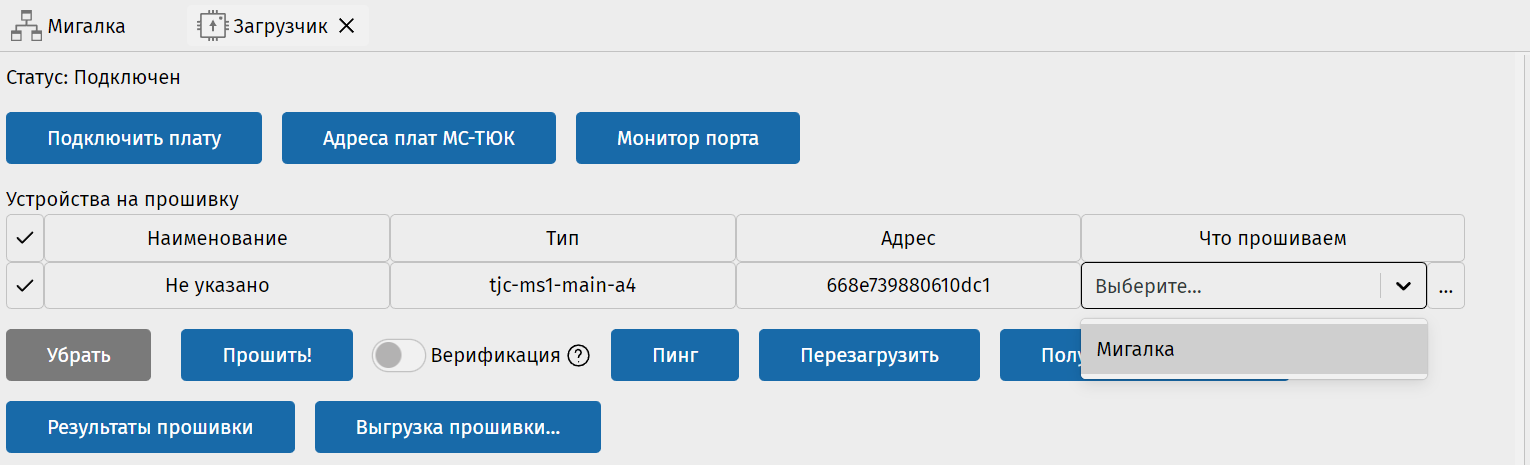
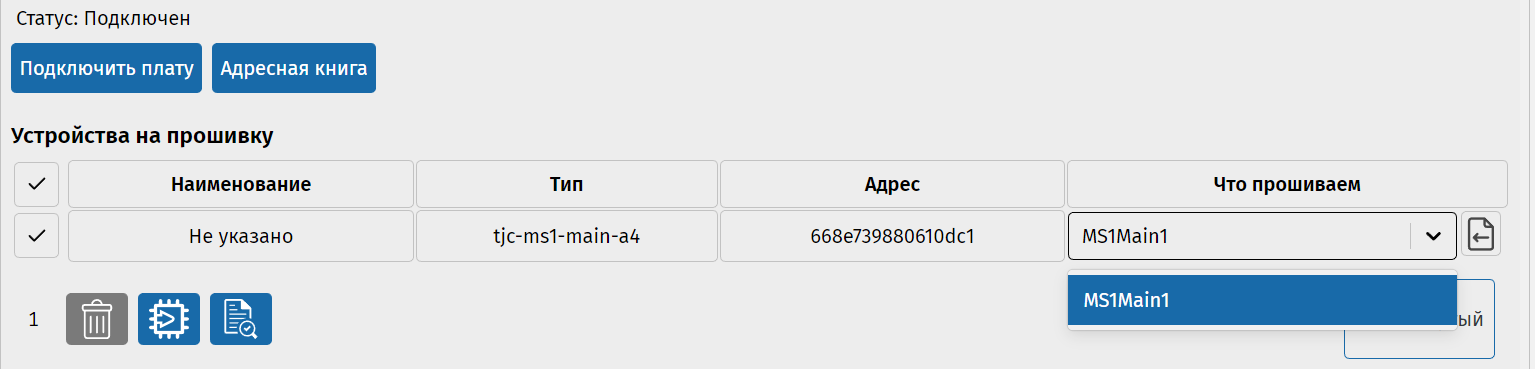
обновление быстрого старта

diff --git a/html/quick-start/Загрузка прошивки/1.html b/html/quick-start/Загрузка прошивки/1.html
@@ -3,3 +3,10 @@
   столбце «Что прошиваем» нужно выбрать машину состояний, которую мы хотим
   загрузить в соответствующую плату.
 </p>
+
+<p class="mt-3 text-bg-success">
+  <em>
+    Если устройству из таблицы подходит для загрузки только одна машина
+    состояний, то она автоматически подставится в столбце «Что прошиваем».
+  </em>
+</p>
